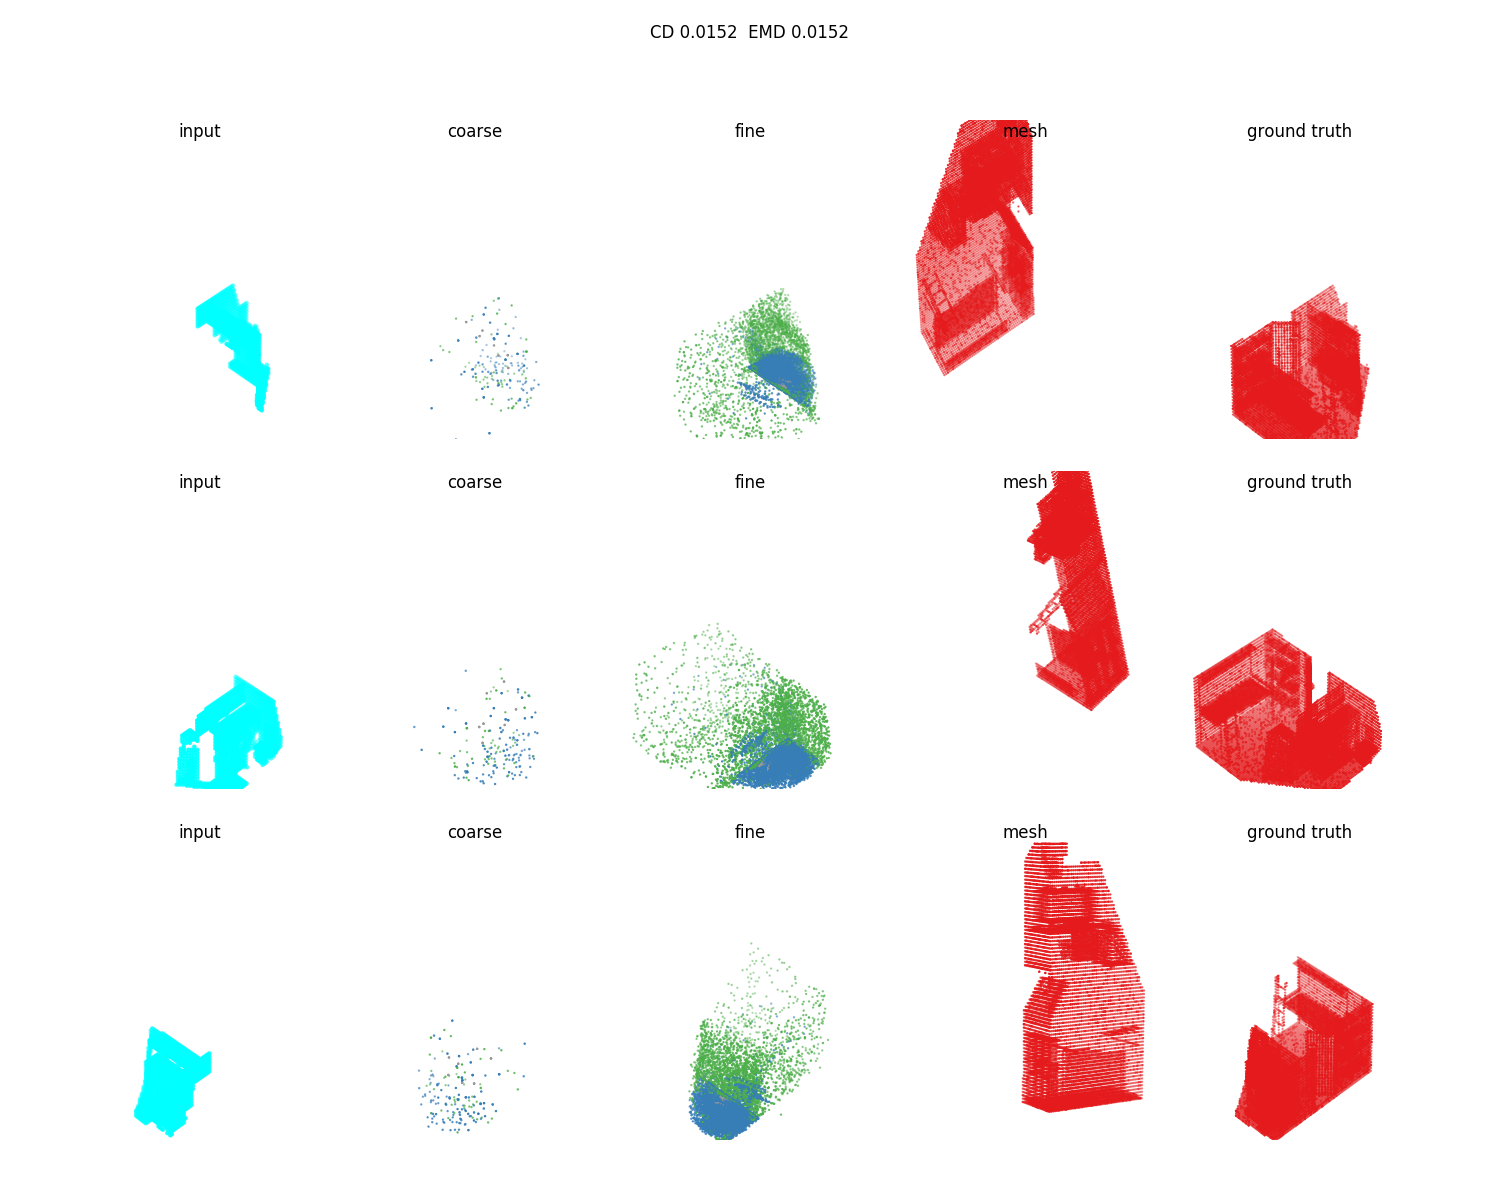
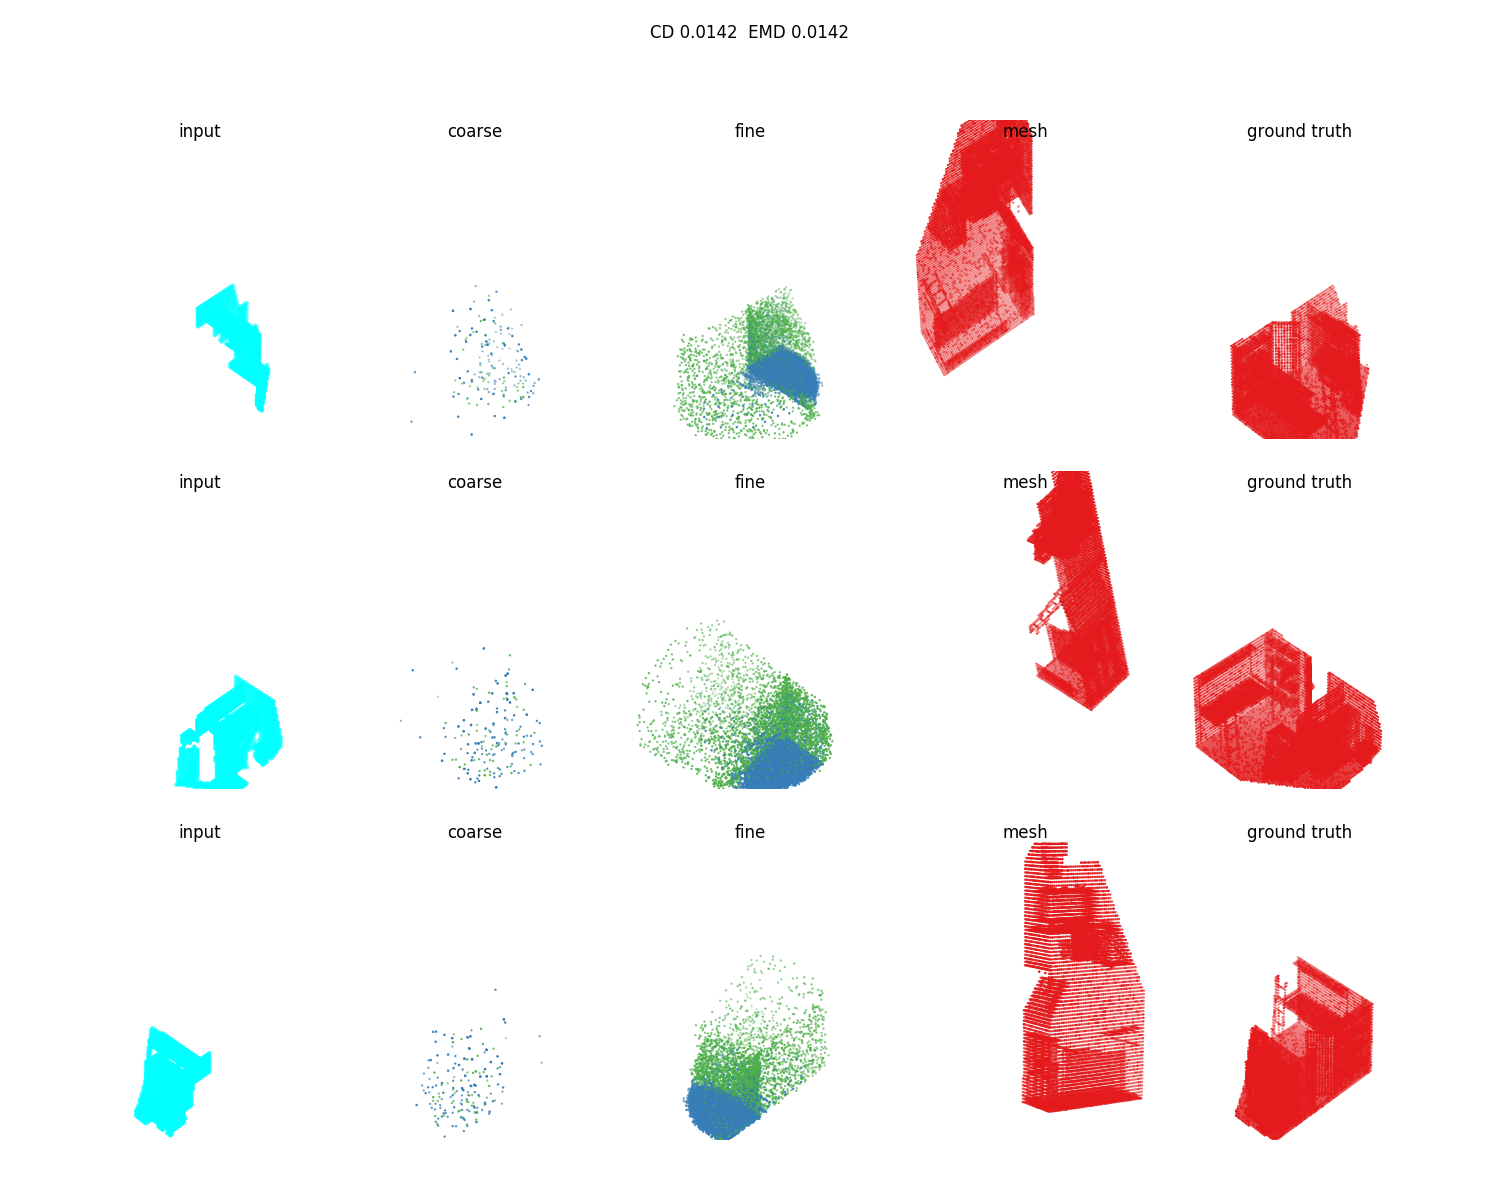
add plots

diff --git a/models/pcn_reg.py b/models/pcn_reg.py
@@ -130,7 +130,7 @@ class Model:
         # p_fine_samp = tf.reduce_mean(p_fine_feat, [1])
         entropy = tf.nn.relu(tf.log(self.channels*1.0) + tf.reduce_mean(tf.reduce_sum(p_coar_samp * tf.log(p_coar_samp), [1]), [0]))
         # entropy += tf.nn.relu(tf.log(self.channels*1.0) + tf.reduce_mean(tf.reduce_sum(p_fine_samp * tf.log(p_fine_samp), [1]), [0]))
-        entropy += tf.reduce_mean(tf.nn.softmax_cross_entropy_with_logits(labels=p_can_feat, logits=p_coar_feat))
+        # entropy += tf.reduce_mean(tf.nn.softmax_cross_entropy_with_logits(labels=p_can_feat, logits=p_coar_feat))
         loss_coarse = chamfer(coarse[:,:,0:3], gt[:,:,0:3])
         loss_coarse += chamfer(self.canonical[:,:,0:3], self.gt_can[:,:,0:3])
         _, retb, _, retd = tf_nndistance.nn_distance(coarse[:,:,0:3], gt[:,:,0:3])
